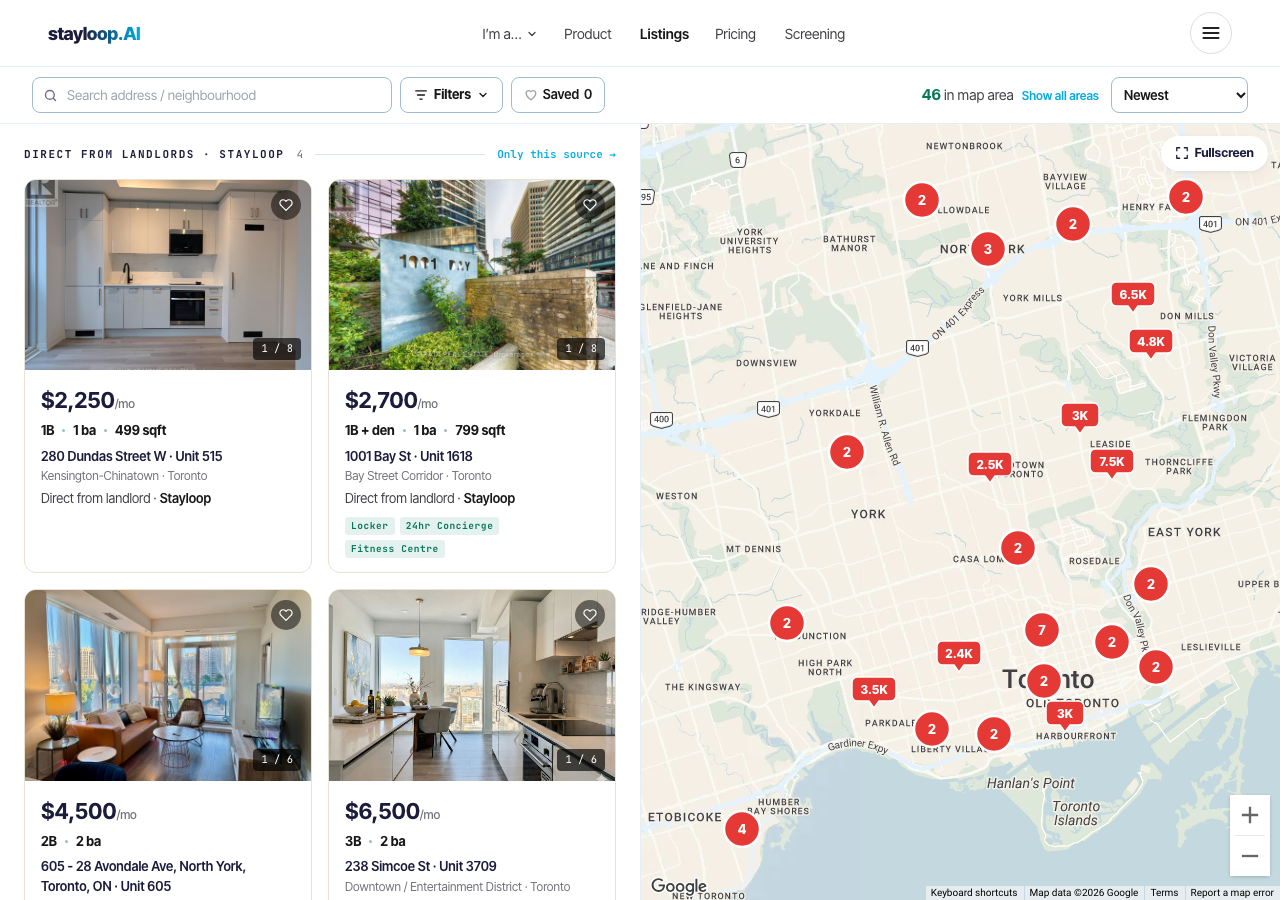
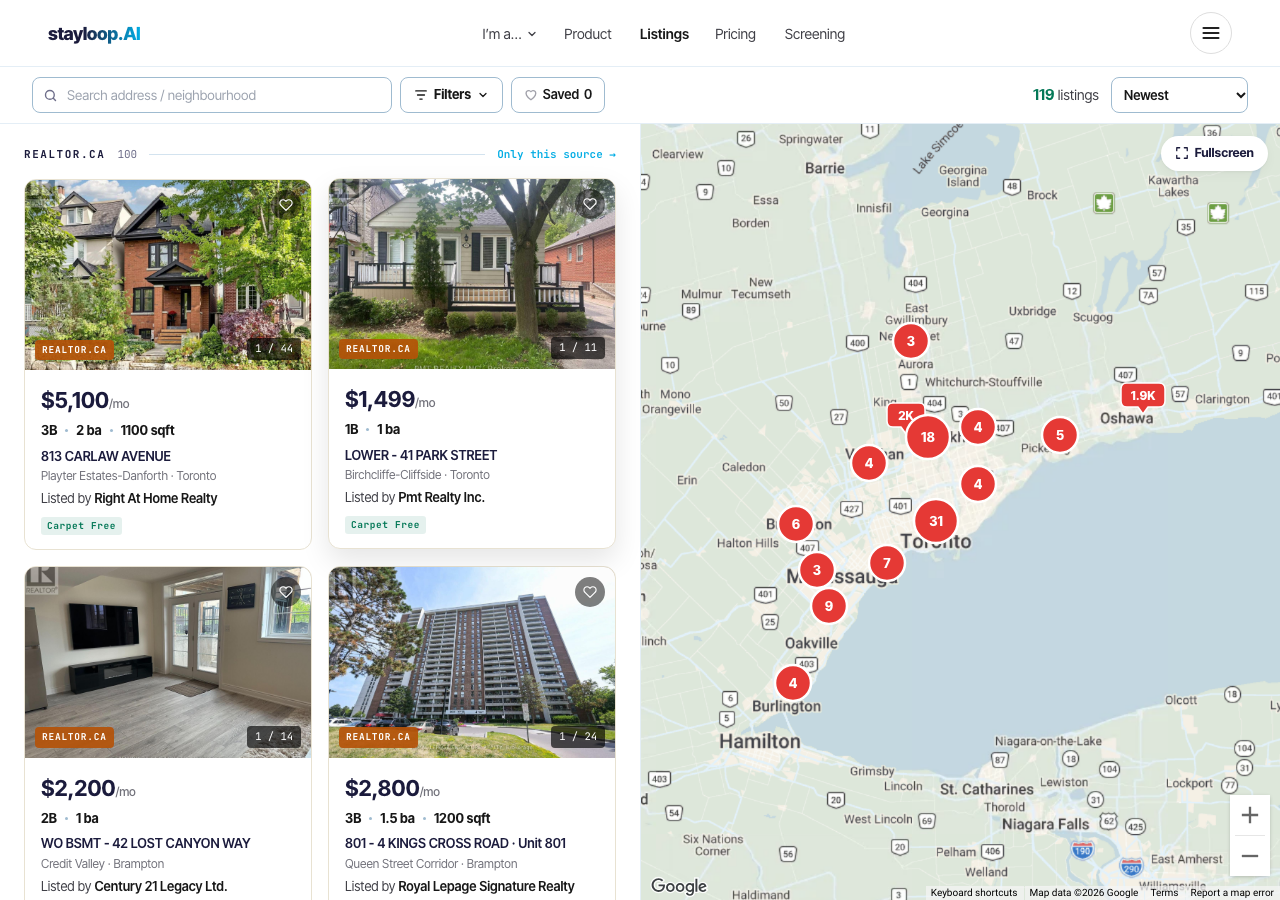
PropTx 审核截图重截（地图手势修复后）+ 目录说明

diff --git a/design/proptx-screenshots-2026-10/README.md b/design/proptx-screenshots-2026-10/README.md
@@ -1,0 +1,14 @@
+# PropTx 审核截图（2026-10-11 · 生产环境 · 英文界面 · 1280px · 匿名访客视角）
+
+| 文件 | 内容 | 对应规则 |
+|---|---|---|
+| 01-listings-browse.png | 房源列表：来源分组标题、每张卡「Listed by <经纪公司>」、计数 | 8.26 / 8.28 / 8.29 |
+| 02-listings-browse-notice.png | 分页（每页最多 100）、页脚声明（可靠性 / 来源 / 版权商标 / 条款链接 / 48 小时更正通道） | 8.27 / 8.25 / 8.07 / 8.16 |
+| 03-listing-detail-top.png | 详情页标题下「Listed by <经纪公司> · via Realtor.ca」 | 8.26 / 8.28 |
+| 04-listing-detail-notice.png | 详情页底部声明 | 8.25 / 8.07 / 8.16 |
+| 05-rent-history-anonymous.png | 租金记录：匿名只见最新一行，其余模糊 + 登录入口；联系卡的经纪公司与经纪人 | VOW 注册用户限定 / 8.26 |
+| 06-terms-listing-data-rules.png | 服务条款第 5 节九条房源信息使用规则 | 8.09 / 8.10 / 8.11 |
+| 07-privacy-3b.png | 隐私政策 3b：同意记录与房源页活动可提供给协会审计 | 8.19 |
+| 08-signup-name-and-terms.png | 注册：姓名 + 密码 + 勾选同意条款（含房源信息规则）与隐私 | 8.05 / 8.09 |
+
+截图方法：会话 scratchpad `shots/cdp2.mjs`（无头 Chrome + CDP，可设语言、等待、滚到选择器、执行预处理脚本）。
